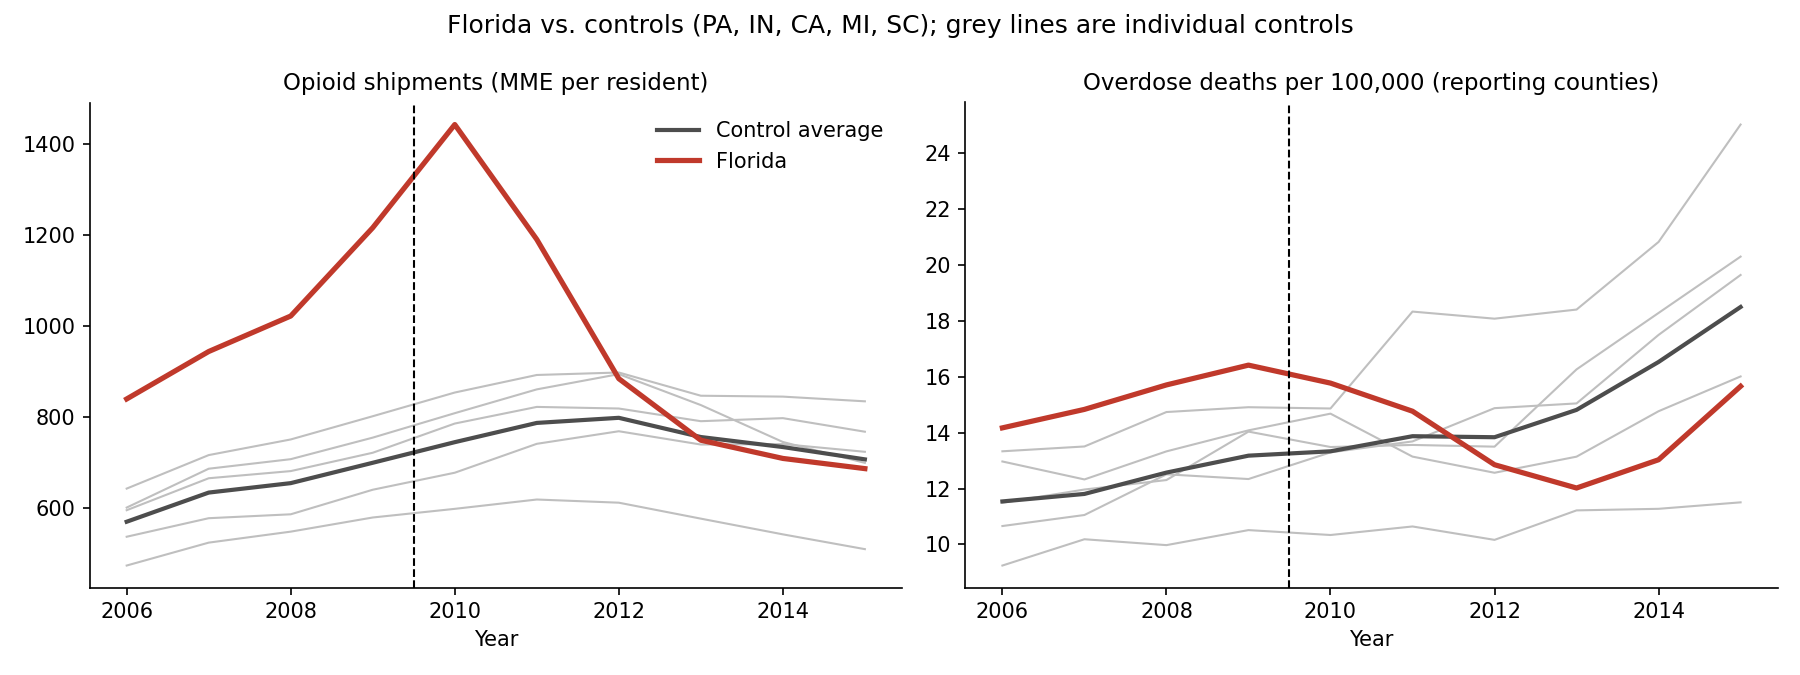
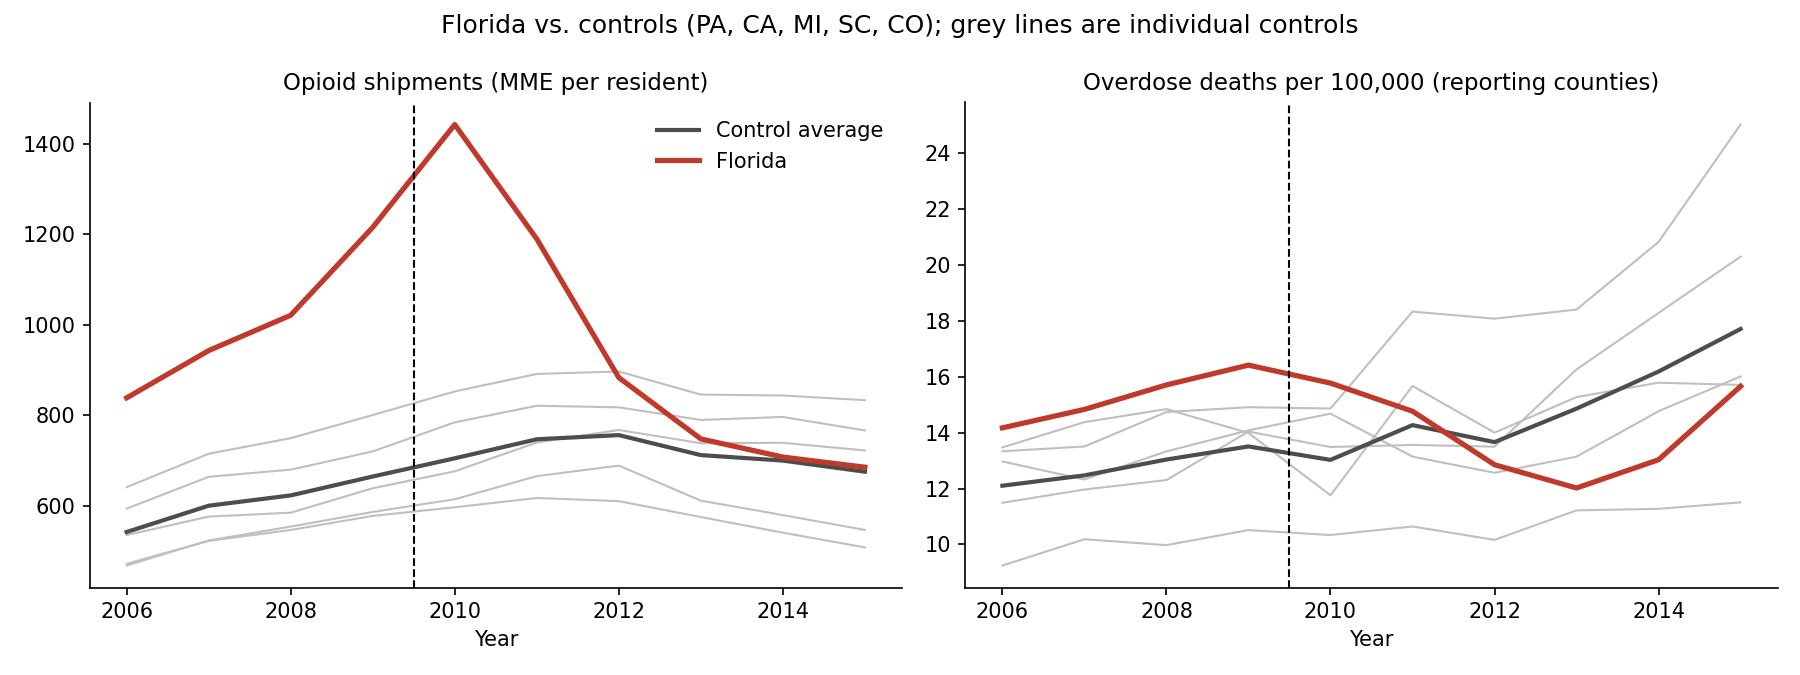
Base control-state exclusions on sourced state policy dates
Replaces the hand-listed concurrent-policy states with a table of pain clinic laws
(CDC Public Health Law Program menu) and binding opioid prescribing rules (Network
for Public Health Law Appendix B), and excludes candidates with a policy taking
effect within three years before to three years after the treated state's policy.

diff --git a/code/04_control_states.py b/code/04_control_states.py
@@ -46,20 +46,45 @@ EXCLUDED_DRUGS = {"BUPRENORPHINE"}  # mainly used to treat opioid use disorder
 # Alaska is dropped per the project instructions (county boundaries change in 2010).
 # DC is not a state.
 NOT_CANDIDATES = {"AK", "DC"}
-# States with their own pill-mill, pain-clinic or prescribing laws during the study
-# window. Based on the team's policy review; verify against the NPHL appendix
-# before finalizing.
-CONCURRENT_POLICY = {
-    "GA": "pain clinic law, 2013",
-    "KY": "HB 1 pill mill law, 2012",
-    "LA": "pain clinic law, 2005 and 2008",
-    "MS": "pain clinic rules, 2011",
-    "NY": "I-STOP mandatory PDMP use, 2013",
-    "OH": "pill mill law, 2011",
-    "TN": "pain clinic law, 2011 to 2012",
-    "TX": "pain clinic law, 2010",
-    "WV": "pain clinic law, 2012",
+# State opioid prescribing rules with the force of law and pain clinic laws, with
+# the year each took effect. Sources:
+#   [CDC] CDC Public Health Law Program, "Menu of Pain Management Clinic Regulation"
+#         (laws through Sept 28, 2012; footnote adds AL, GA and IN by July 2013).
+#   [NPHL] Network for Public Health Law (Corey Davis), "Appendix B: State-by-State
+#         Summary of Opioid Prescribing Regulations and Guidelines" (hosted by the
+#         Arizona Department of Health Services).
+# Only years 2006 to 2015 matter here. Advisory guidelines are not listed.
+STATE_POLICIES = {
+    "AL": [(2013, "pain clinic law [CDC]; prescribing rule Ala. Admin. Code 540-X-4 [NPHL]")],
+    "GA": [(2013, "pain clinic law [CDC]; Ga. Comp. R. & Regs. 360-3-.06 [NPHL]")],
+    "IN": [(2013, "pain clinic law [CDC]"), (2014, "844 Ind. Admin. Code 5-6-3 [NPHL]")],
+    "KY": [(2012, "pain clinic law, KRS 218A.175 [CDC]"), (2013, "201 KAR 9:260 [NPHL]")],
+    "LA": [(2005, "pain clinic law, La. R.S. 40:2198.11 [CDC]"), (2008, "pain clinic rules [CDC]")],
+    "ME": [(2012, "Board of Licensure in Medicine rule, 02-373 Me. Code R. 21 [NPHL]")],
+    "MS": [(2012, "pain clinic rules, 30-17 Miss. Code R. 2640 [CDC, NPHL]")],
+    "NJ": [(2011, "N.J. Admin. Code 13:35-7.6 [NPHL]")],
+    "NM": [(2014, "N.M. Code R. 16.10.14.10 [NPHL]")],
+    "NY": [(2013, "I-STOP, N.Y. Pub. Health 3334-a(2) [NPHL]")],
+    "OH": [(2011, "pain clinic law, Ohio Rev. Code 4731.054 [CDC]")],
+    "OK": [(2010, "Okla. Stat. tit. 63, 2-302(M) [NPHL]")],
+    "RI": [(2014, "R.I. Admin. Code 31-2-6:3.0 [NPHL]")],
+    "TN": [(2011, "pain clinic law, Tenn. Code 63-1-301 [CDC]"), (2013, "Tenn. Code 53-11-308 [NPHL]")],
+    "TX": [(2007, "22 Tex. Admin. Code 170.3 [NPHL]"), (2009, "pain clinic law, Tex. Occ. Code 168 [CDC]"),
+           (2010, "pain clinic rules, 22 Tex. Admin. Code 195 [CDC]")],
+    "VT": [(2014, "Vt. Stat. tit. 18, 4289(d) [NPHL]")],
+    "WV": [(2012, "pain clinic law, W. Va. Code 16-5H [CDC]"), (2014, "W. Va. Code 60A-9-5a [NPHL]")],
 }
+# A candidate is excluded if any of its policies took effect in this window around
+# the treated state's policy year: three pre-policy years, three post-policy years
+# (the policy year counts as post), plus one more year in case of anticipation.
+WINDOW_BEFORE, WINDOW_AFTER = 3, 3
+
+
+def concurrent_policies(state, policy_year):
+    lo, hi = policy_year - WINDOW_BEFORE, policy_year + WINDOW_AFTER
+    return "; ".join(f"{y}: {d}" for y, d in STATE_POLICIES.get(state, []) if lo <= y <= hi)
+
+
 STATE_NAMES = {
     "AL": "Alabama", "AK": "Alaska", "AZ": "Arizona", "AR": "Arkansas", "CA": "California",
     "CO": "Colorado", "CT": "Connecticut", "DE": "Delaware", "DC": "District of Columbia",
@@ -130,7 +155,7 @@ def rank_candidates(panel, treated, policy_year):
     scores = pd.concat([trend_distance(panel, o, treated, policy_year) for o in OUTCOMES], axis=1)
     scores = scores[scores.index.isin(candidates)]
     scores["mean_gap"] = scores.mean(axis=1, skipna=False)
-    scores["concurrent_policy"] = scores.index.map(CONCURRENT_POLICY).fillna("")
+    scores["concurrent_policy"] = [concurrent_policies(s, policy_year) for s in scores.index]
     return scores.sort_values("mean_gap")
 
 
